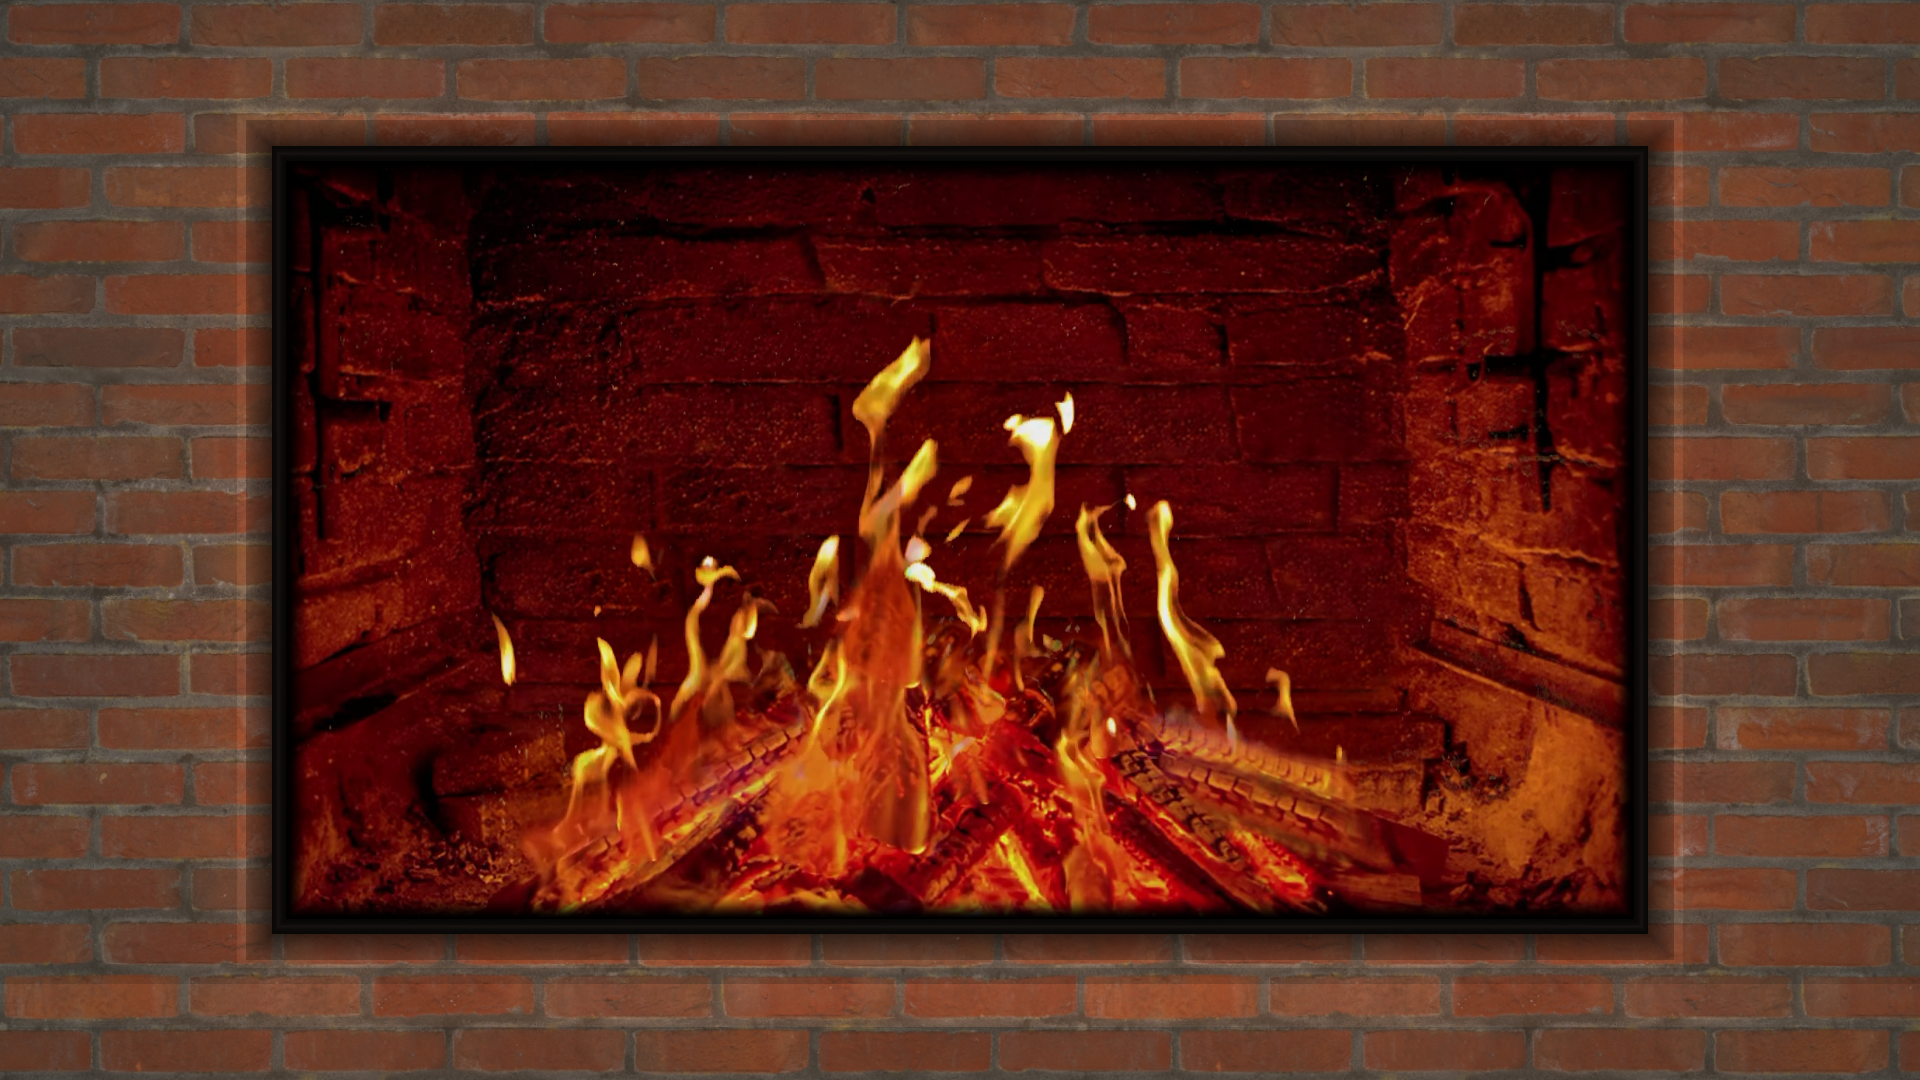
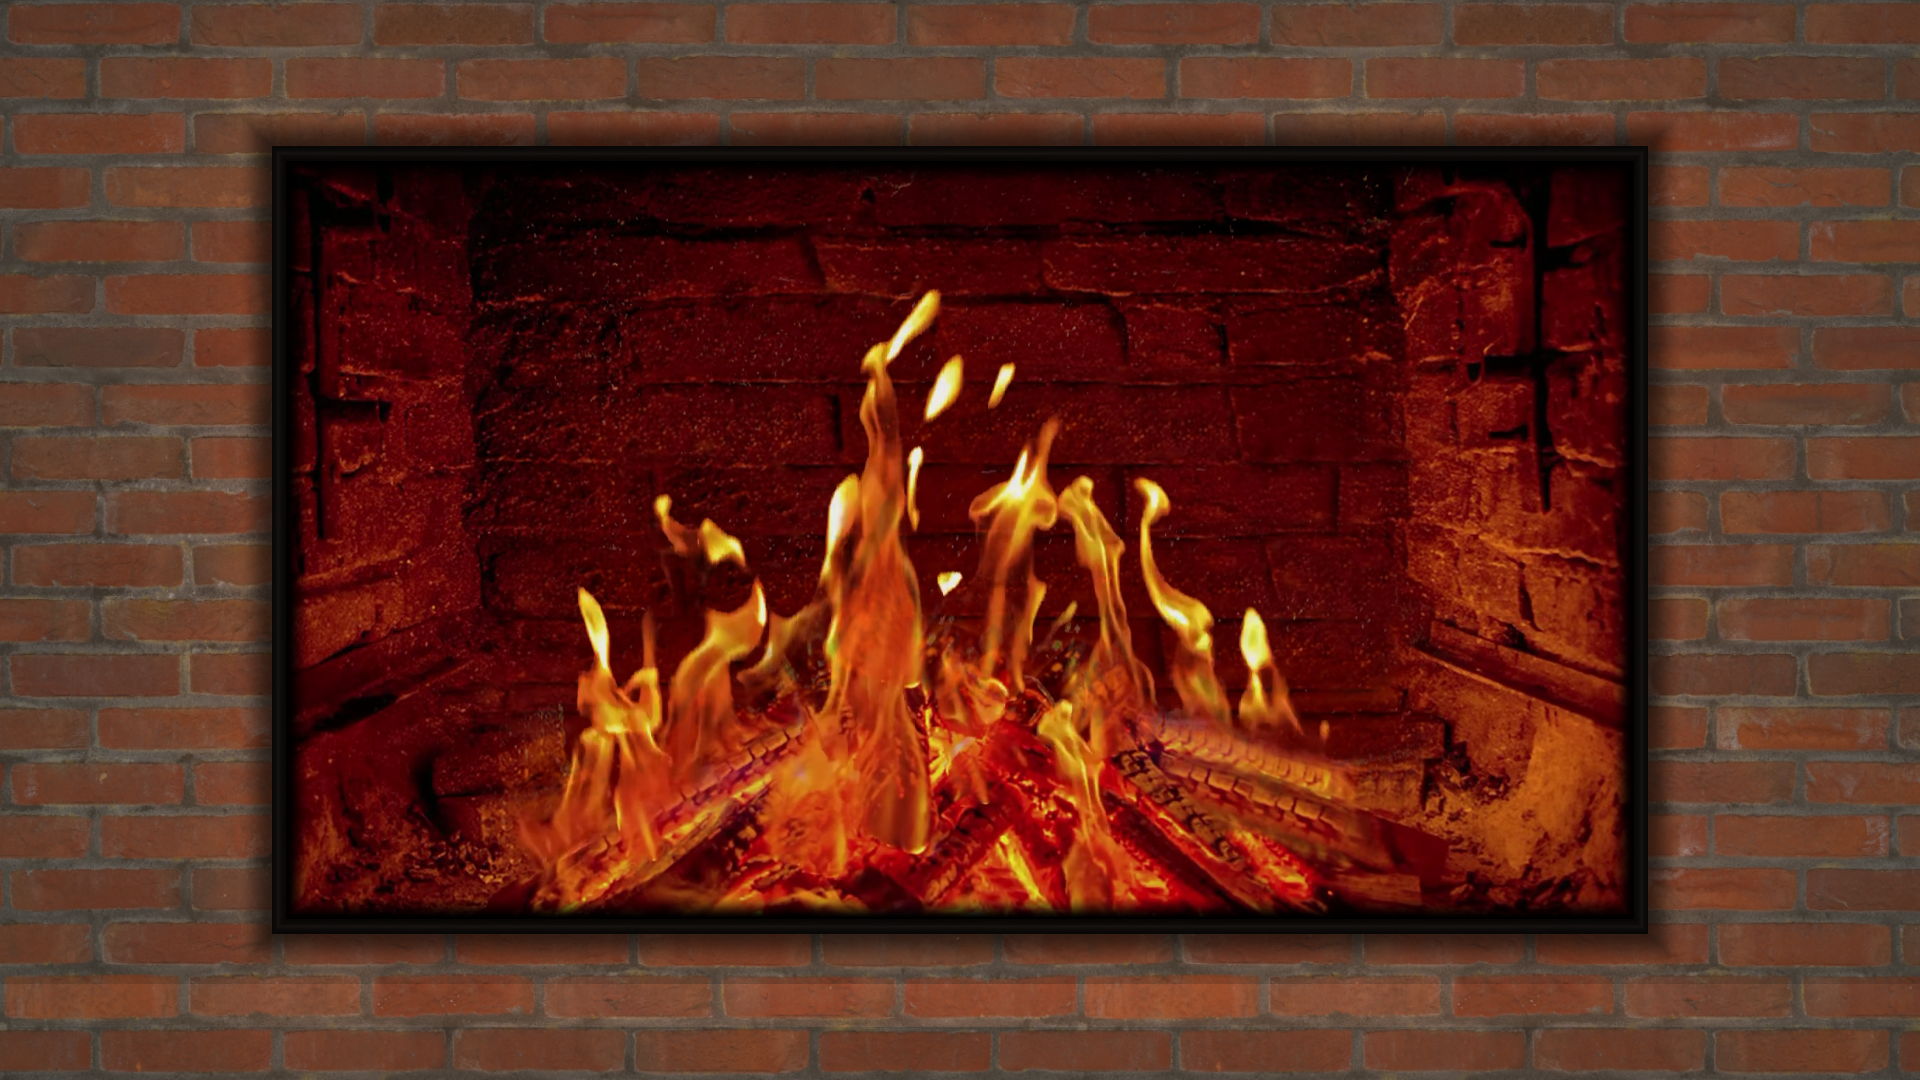
Record the exact polished wood-height native gate

Changed region(s): [[0.25, 0.275, 0.6875, 0.7944], [0.6875, 0.6722, 0.7188, 0.7028]]

diff --git a/docs/VERIFICATION.md b/docs/VERIFICATION.md
@@ -167,6 +167,32 @@ to the complete source proof reviewed in QuickTime. Local build, Java/style,
 installer, privacy, media integrity and artifact checks passed. Exact code 7
 Android visual and physical presentation gates remain pending.
 
+### Exact code 7 emulator gate
+
+The exact frozen code 7 APK was installed in place on the API 34 emulator and
+retained all eleven Hearth values. Actual D-pad selection exercised Small,
+Medium and Large with provider readback, Preview and Back. Current native
+captures show each size and the softened bezel. A 34.685-second frameless,
+large-height, lively-ash recording was saved; its length spans a source loop,
+but independent moving/boundary review is still pending. No DreamService or
+physical presentation claim is made from this Preview gate.
+
+Home and reorder-to-front resumed the same Preview ActivityRecord, and Back
+returned to the original Settings activity. Strict cleanup matched Hearth's
+eleven values, fourteen live UI values, fifteen observed system values,
+available surrounding providers, twenty-nine other package hashes, external
+backup/import bytes and existence, and both app-op scopes. Accessibility health,
+stopped guard, unlimited/zero-latency network and Google Home were verified.
+Hearth 7 and the retained Skycast 3 were force-stopped; the AVD remained alive.
+
+The AVD had been absent at preflight. Starting its existing userdata loaded a
+Quick Boot snapshot, so this is not a cold-boot claim. Before app mutation,
+read-only package, OS, weather, network, guard, accessibility, app-op and file
+comparisons matched the previous coordinated run. A fresh live UI export then
+matched that run's fourteen values as well. All new baselines were persisted
+on disk before the gate, and the temporary export app-op was immediately
+restored. The current source screenshots were inspected before inclusion.
+
 ## Final 1.0.0 artifact
 
[1 lines of base64/hex data omitted]

diff --git a/docs/SCREENSHOTS.md b/docs/SCREENSHOTS.md
@@ -2,11 +2,12 @@
 
 ## Wood height development candidate
 
-These current captures come from version 1.1.0/code 6 on the Android TV API 34
+These current captures come from version 1.1.0/code 7 on the Android TV API 34
 emulator at 1920x1080. They are PreviewActivity captures, not physical-TV or
 DreamService proof. The fixed logs and frame retain their coordinates while the
 recorded flame emission changes height through the pre-rendered variants.
-Code 6 physical presentation testing is pending.
+The code 7 bezel and softer flame-body changes await physical verification.
+Code 6 completed the five-minute physical presentation foundation.
 Exact artifact hashes are in [capture provenance](../art/screenshots/wood-height-provenance.json).
 
 <table><tr><th>Small</th><th>Medium</th><th>Large</th></tr><tr><td><img src="../art/screenshots/wood-height-small-api34.png" alt="Small wood flame emission above unchanged logs"></td><td><img src="../art/screenshots/wood-height-medium-api34.png" alt="Original medium wood footage with unchanged logs"></td><td><img src="../art/screenshots/wood-height-large-api34.png" alt="Large wood flame emission above unchanged logs"></td></tr><tr><td><img src="../art/screenshots/wood-height-settings-api34.png" alt="Native settings with wood flame height enabled"></td><td></td><td></td></tr></table>

diff --git a/README.md b/README.md
@@ -29,8 +29,9 @@
 - [Screenshots](#screenshots)
 - [License](#license)
 
-Version 1.1 is in development; its corrected code 6 wood-height and ash renderer
-has emulator evidence and awaits physical performance testing. The released 1.0.0 build has been checked on Google TV API 34 and a physical
+Version 1.1 is in development. Its code 7 flame-body and bezel polish passed
+native emulator controls and resume checks; final physical verification remains
+pending. Code 6 completed a five-minute physical performance foundation. The released 1.0.0 build has been checked on Google TV API 34 and a physical
 AFTDEC012E Fire TV at API 30. The modern scene combines recorded flame emission
 with an original steel burner and glass bed. See the [verification record](docs/VERIFICATION.md)
 for the exact artifact, device checks and remaining limits. The physical moving recording passed independent review.
